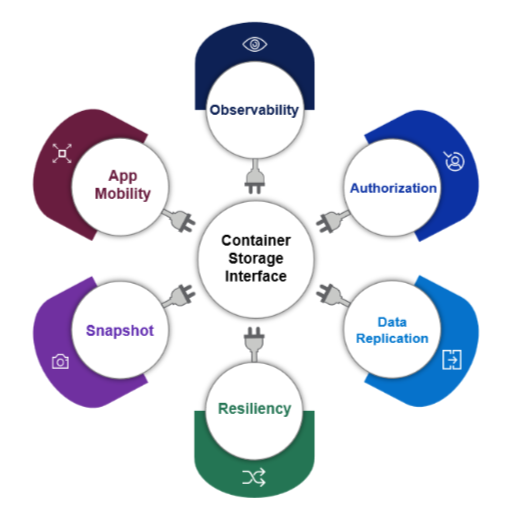
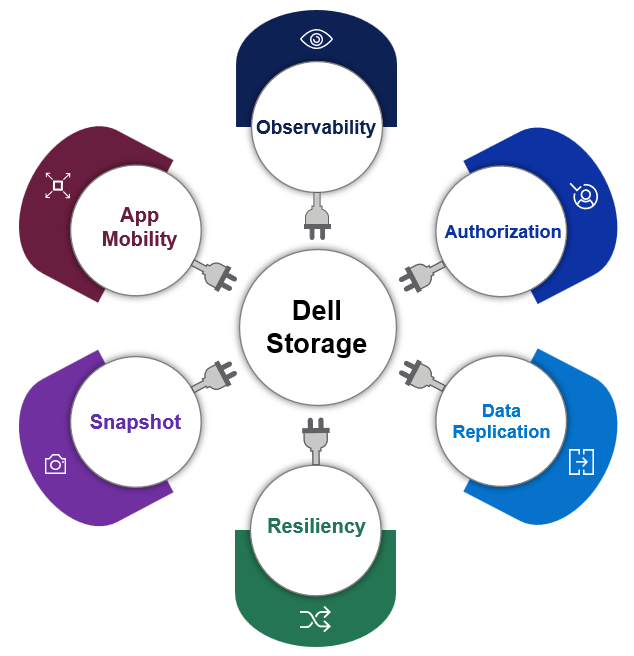
Update CSM hexagon image and feedback section

Changed region(s): [[0.0305, 0.0, 0.9771, 1.0]]

diff --git a/layouts/partials/feedback1.html b/layouts/partials/feedback1.html
@@ -1,8 +1,6 @@
 <style>  
     .feedback-container{
-      border:1px solid rgb(211, 209, 209); 
-      padding:20px;
-      margin-top:20px;
+      margin-top:40px;
     }
     .feedback--answer {
       display: inline-block; 
